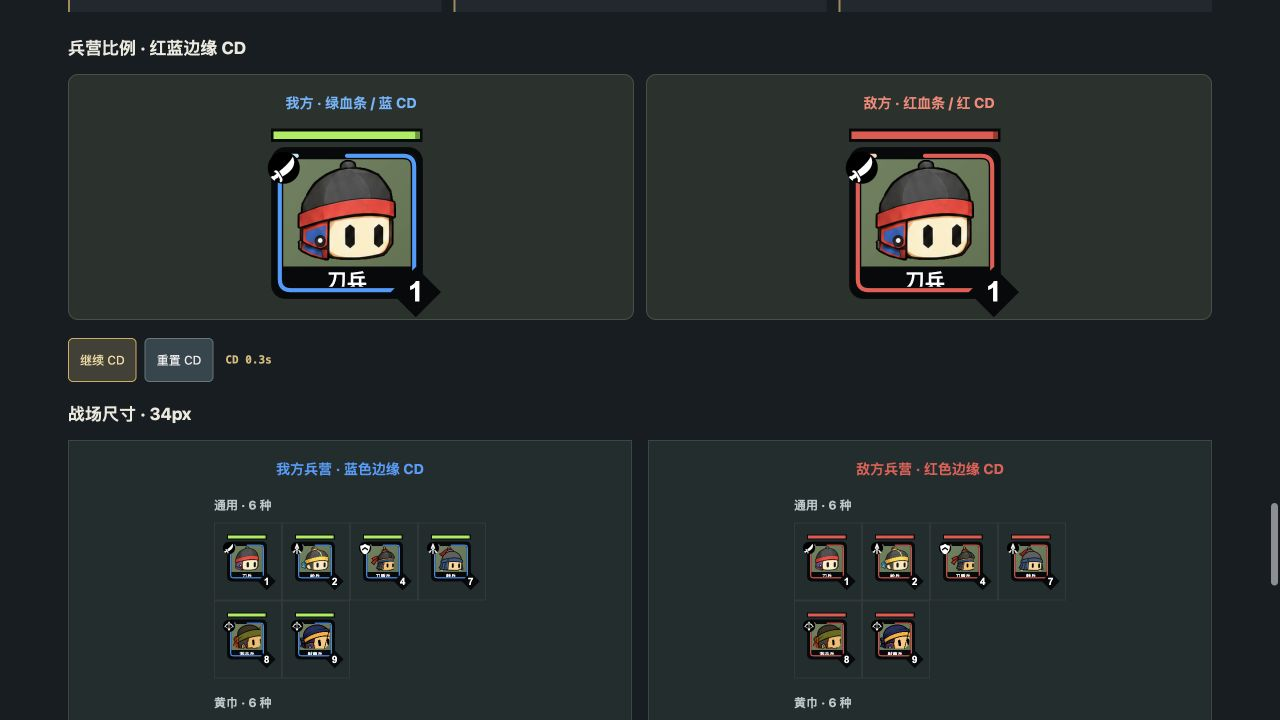
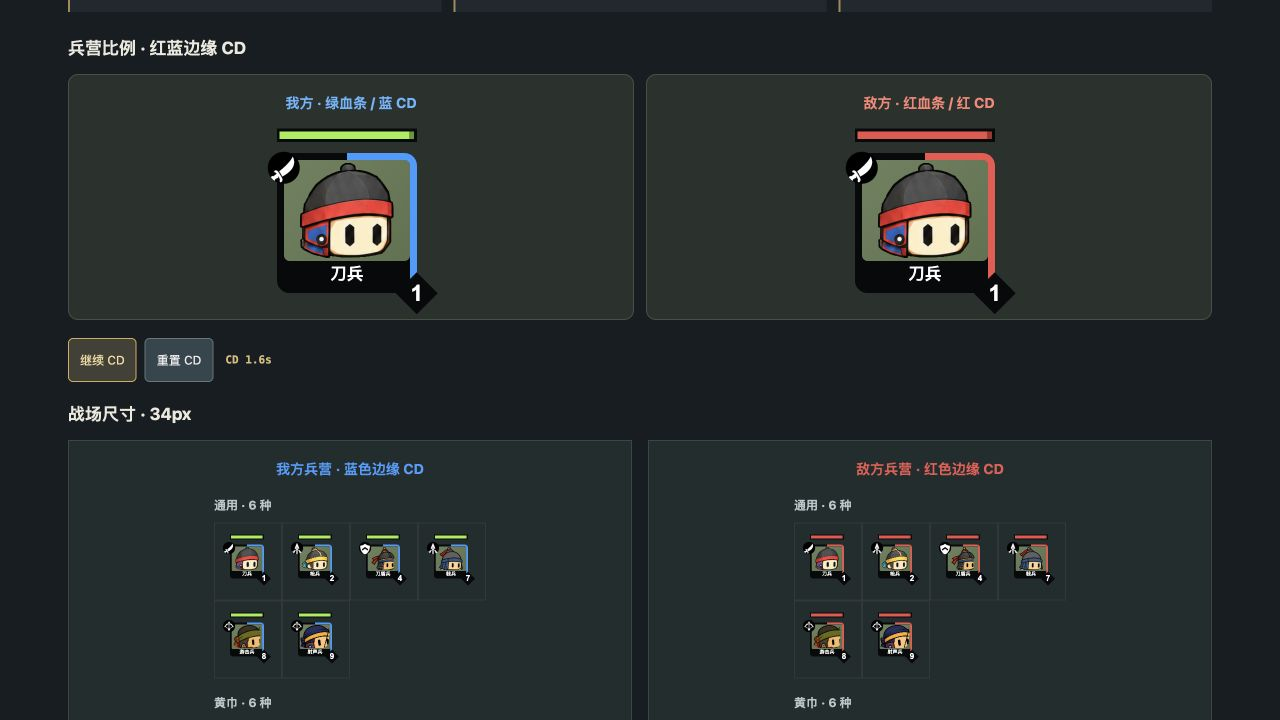
Fix square barracks frame and put cooldown on outer rim

diff --git a/simulators/barracks-hud-v020-20261021/index.html b/simulators/barracks-hud-v020-20261021/index.html
@@ -1,27 +1,27 @@
-<!doctype html><html lang="zh-CN"><meta charset="utf-8"><meta name="viewport" content="width=device-width,initial-scale=1"><title>兵营 · 方形比例与红蓝边缘 CD v030</title>
+<!doctype html><html lang="zh-CN"><meta charset="utf-8"><meta name="viewport" content="width=device-width,initial-scale=1"><title>兵营 · 方形比例与红蓝边缘 CD v031</title>
 <style>
 *{box-sizing:border-box}body{margin:0;background:#171d22;color:#ece9dd;font-family:system-ui,-apple-system,"PingFang SC",sans-serif}main{max-width:1200px;margin:auto;padding:28px 28px 40px}h1{font-size:28px;margin:0 0 8px}p{color:#b2babd;font-size:14px;line-height:1.7;margin:0 0 18px}header b{color:#e7d5a5}.legend{display:flex;gap:18px;flex-wrap:wrap;font-size:12px;margin:18px 0}.legend span{display:flex;align-items:center;gap:7px}.swatch{width:16px;height:16px;display:grid;place-items:center;background:#08090b;clip-path:polygon(50% 0,100% 50%,50% 100%,0 50%)}.swatch:after{content:"";width:12px;height:12px;background:var(--country);transform:rotate(45deg)}
 .view-tabs{padding:8px;background:#20292f;border:1px solid #344148;border-radius:8px;gap:8px}.view-tabs button[aria-pressed=true]{box-shadow:inset 0 -3px var(--pick,#a8ba8e)}.team-board[data-team="ally"] .unit{--frame:#3d9eff}.team-board[data-team="enemy"] .unit{--frame:#ed5752}.return-link{display:inline-flex;align-items:center;min-height:44px;padding:8px 12px;margin-bottom:14px;color:#f7dea1;background:#34454d;border:1px solid #65757a;border-radius:5px;text-decoration:none;font-size:13px}nav{display:flex;gap:8px;flex-wrap:wrap;margin:0 0 20px}button{background:#34454d;color:#eee;border:1px solid #65757a;border-radius:5px;padding:8px 11px;cursor:pointer;font:inherit;font-size:12px;min-height:44px;min-width:44px}button[aria-pressed=true]{border-color:#d7ad55;color:#f7dea1;background:#424136}
-.grid{display:grid;grid-template-columns:repeat(4,1fr);gap:16px}.sample{background:#263136;border:1px solid #344148;border-radius:12px;padding:26px 8px 14px;text-align:center;min-width:0}.stage{height:176px;display:flex;justify-content:center;align-items:center;padding:0 10px}.sample small{display:block;color:#a1adb3;font-size:10px;margin-top:10px}.unit{--s:120px;--rim:max(2px,calc(var(--s)*.035));--name-h:max(12px,calc(var(--s)*.35));--radius:calc(var(--s)*.09);position:relative;width:var(--s);height:var(--s);isolation:isolate;flex:none;margin:0 calc(var(--s)*.06) 0 0}.tile{position:absolute;inset:0;background:#101519;border-radius:var(--radius);overflow:hidden;box-shadow:0 0 0 var(--rim) var(--frame,var(--quality-rim)),0 0 0 calc(var(--rim) + 1px) #08090b}.tile:before{content:"";position:absolute;inset:max(1px,calc(var(--s)*.016));background:var(--quality);border-radius:calc(var(--radius) - max(1px,calc(var(--s)*.016)))}.tile:after{content:"";position:absolute;inset:max(2px,calc(var(--s)*.032));background:linear-gradient(135deg,#ffffff0d,#00000013),var(--quality);border-radius:calc(var(--radius) - max(2px,calc(var(--s)*.032)));box-shadow:inset 0 0 0 1px #ffffff30}.portrait{position:absolute;left:8%;right:8%;top:5%;bottom:calc(var(--name-h) + var(--s)*.025);display:flex;align-items:center;justify-content:center;container-type:size;z-index:1}.head{flex:none;width:min(100cqw,calc(100cqh * var(--ratio)));aspect-ratio:var(--ratio);background-image:var(--atlas);background-size:var(--sprite-size);background-position:var(--sprite-pos);background-repeat:no-repeat}
-.hp{position:absolute;left:calc(-1 * (var(--rim) + 1px));right:calc(-1 * (var(--rim) + 1px));bottom:calc(100% + max(5px,calc(var(--s)*.08)));height:max(5px,calc(var(--s)*.095));background:#08090b;padding:max(1px,calc(var(--s)*.02));z-index:3}.fill{height:100%;width:var(--hp,100%);background:var(--hp-color,#a0ee49);box-shadow:inset calc(var(--s)*-.035) 0 var(--hp-shade,#5c982c)}.role{--role-w:max(14px,calc(var(--s)*.26));position:absolute;left:calc(var(--s)*.18 - var(--role-w));top:-3.5px;width:var(--role-w);height:auto;z-index:8}.level{position:absolute;right:min(calc(max(18px,calc(var(--s)*.36)) * -.48),calc(var(--name-h) - max(18px,calc(var(--s)*.36)) - .1px));bottom:min(calc(max(18px,calc(var(--s)*.36)) * -.48),calc(var(--name-h) - max(18px,calc(var(--s)*.36)) - .1px));width:max(18px,calc(var(--s)*.36));aspect-ratio:1;background:#08090b;clip-path:polygon(50% 0,100% 50%,50% 100%,0 50%);display:grid;place-items:center;z-index:8}.level:before{content:"";position:absolute;inset:max(2px,calc(var(--s)*.035));background:#08090b;clip-path:inherit}.digit{position:relative;color:#fff;font:900 max(10px,calc(var(--s)*.20))/1 Arial,Helvetica,sans-serif;font-variant-numeric:tabular-nums;letter-spacing:-.035em;padding-right:.03em;z-index:1}.digit.wide{font-size:max(9px,calc(var(--s)*.16))}.nameplate{position:absolute;bottom:0;left:0;width:100%;height:var(--name-h);display:flex;align-items:center;justify-content:center;padding:0 2%;background:#08090b;color:#fff;font-size:max(10px,calc(var(--s)*.333));font-weight:750;line-height:1;white-space:nowrap;z-index:2}.cd{position:absolute}.countdown{font:600 11px/1.4 ui-monospace,SFMono-Regular,monospace;color:#dabb78;display:block;margin-top:5px}
-.group-title{grid-column:1/-1;margin:12px 0 0;padding-bottom:8px;border-bottom:1px solid #465044}.board-group{grid-column:1/-1;font-size:12px;margin:16px 0 9px;color:#bbc6c8}.board-group:first-child{margin-top:0}.sample .full-name{font-size:12px;color:#ece9dd;margin-top:6px}.sample .pending-label{color:#e7bc70}.placeholder{background-image:none!important;display:grid;place-items:center;color:#c1c9ca;font-size:max(6px,calc(var(--s)*.13));font-weight:600}.long-name .nameplate{font-size:max(10px,calc(var(--s)*.333));letter-spacing:-.05em}.long-name .name-text{transform:scaleX(.72)}.notes{display:grid;grid-template-columns:repeat(3,1fr);gap:12px;margin-top:20px}.note{background:#20292f;padding:14px 16px;border-left:2px solid #a18a55;font-size:13px;color:#b7c1c7;line-height:1.8}.note strong{display:block;color:#eee9db;font-size:14px}section{margin-top:24px}h2{font-size:17px;margin:0 0 14px}.battle-sides{display:grid;grid-template-columns:repeat(2,minmax(0,1fr));gap:16px}.team-board h3{font-size:14px;margin:0 0 18px;text-align:center}.team-board[data-team="ally"] h3{color:#3d9eff}.team-board[data-team="enemy"] h3{color:#ed5752}.actual{background:#222d2e;border:1px solid #3a4742;padding:18px 10px;overflow:auto}.board{display:grid;grid-template-columns:repeat(4,68px);width:max-content;margin:auto}.cell{width:68px;height:78px;display:flex;align-items:center;justify-content:center;border:1px solid #46504455}.actual .unit{--s:34px}.caption{font-size:12px;color:#a7b6af;margin:12px 0 0;text-align:center}.foot{font-size:12px;color:#8a999f;margin-top:22px}
+.grid{display:grid;grid-template-columns:repeat(4,1fr);gap:16px}.sample{background:#263136;border:1px solid #344148;border-radius:12px;padding:26px 8px 14px;text-align:center;min-width:0}.stage{height:176px;display:flex;justify-content:center;align-items:center;padding:0 10px}.sample small{display:block;color:#a1adb3;font-size:10px;margin-top:10px}.fill{height:100%;width:var(--hp,100%);background:var(--hp-color,#a0ee49);box-shadow:inset calc(var(--s)*-.035) 0 var(--hp-shade,#5c982c)}.role{--role-w:max(14px,calc(var(--s)*.26));position:absolute;left:calc(var(--s)*.18 - var(--role-w));top:-3.5px;width:var(--role-w);height:auto;z-index:8}.digit{position:relative;color:#fff;font:900 max(8px,calc(var(--s)*.16))/1 Arial,Helvetica,sans-serif;font-variant-numeric:tabular-nums;letter-spacing:-.035em;padding-right:.03em;z-index:1}.digit.wide{font-size:max(6.5px,calc(var(--s)*.13))}.countdown{font:600 11px/1.4 ui-monospace,SFMono-Regular,monospace;color:#dabb78;display:block;margin-top:5px}
+.group-title{grid-column:1/-1;margin:12px 0 0;padding-bottom:8px;border-bottom:1px solid #465044}.board-group{grid-column:1/-1;font-size:12px;margin:16px 0 9px;color:#bbc6c8}.board-group:first-child{margin-top:0}.sample .full-name{font-size:12px;color:#ece9dd;margin-top:6px}.sample .pending-label{color:#e7bc70}.placeholder{background-image:none!important;display:grid;place-items:center;color:#c1c9ca;font-size:max(6px,calc(var(--s)*.13));font-weight:600}.notes{display:grid;grid-template-columns:repeat(3,1fr);gap:12px;margin-top:20px}.note{background:#20292f;padding:14px 16px;border-left:2px solid #a18a55;font-size:13px;color:#b7c1c7;line-height:1.8}.note strong{display:block;color:#eee9db;font-size:14px}section{margin-top:24px}h2{font-size:17px;margin:0 0 14px}.battle-sides{display:grid;grid-template-columns:repeat(2,minmax(0,1fr));gap:16px}.team-board h3{font-size:14px;margin:0 0 18px;text-align:center}.team-board[data-team="ally"] h3{color:#3d9eff}.team-board[data-team="enemy"] h3{color:#ed5752}.actual{background:#222d2e;border:1px solid #3a4742;padding:18px 10px;overflow:auto}.board{display:grid;grid-template-columns:repeat(4,68px);width:max-content;margin:auto}.cell{width:68px;height:78px;display:flex;align-items:center;justify-content:center;border:1px solid #46504455}.actual .unit{--s:34px}.caption{font-size:12px;color:#a7b6af;margin:12px 0 0;text-align:center}.foot{font-size:12px;color:#8a999f;margin-top:22px}
 @media(max-width:600px){.battle-sides{grid-template-columns:1fr;gap:16px}main{padding:22px 16px 30px}h1{font-size:24px}.grid{grid-template-columns:repeat(2,1fr);gap:12px}.sample{padding:20px 5px 12px}.sample .unit{--s:96px}.stage{height:148px}.notes{grid-template-columns:1fr;gap:8px}.board{grid-template-columns:repeat(4,68px)}.actual{padding:16px 6px}.legend{gap:12px}.sample small{font-size:9px}}
 
-/* Shared square barracks: 81% portrait face, 19% black nameplate. */
-.unit{--name-h:calc(var(--s)*.19);--radius:calc(var(--s)*.06);--hp-color:#a0ee49;--hp-shade:#5c982c;--cd-color:#359cff;--cd-light:#c0e8ff}
+/* One 100 x 100 coordinate system: outer CD rim 5%, rounded content inside it. */
+.unit{--s:120px;--edge:calc(var(--s)*.05);--radius:calc(var(--s)*.09);--name-h:calc(var(--s)*.18);--hp-color:#a0ee49;--hp-shade:#5c982c;--cd-color:#359cff;--cd-light:#c0e8ff;position:relative;width:var(--s);height:var(--s);isolation:isolate;flex:none;margin:0 calc(var(--s)*.06) 0 0}
 .unit[data-team="enemy"]{--hp-color:#ef514b;--hp-shade:#a52e2a;--cd-color:#f2544e;--cd-light:#ffd3be}
-.team-board[data-team] .unit,.proportion-sample .unit{--frame:#08090b}
-.tile{box-shadow:0 0 0 var(--rim) var(--frame,var(--quality-rim)),0 0 0 calc(var(--rim) + 1px) #08090b}
-.tile:after{box-shadow:none}
-.portrait{left:6%;right:6%;top:5%;bottom:calc(var(--name-h) + var(--s)*.045)}
-.nameplate{height:var(--name-h);font-size:max(5px,calc(var(--s)*.145));font-weight:900;letter-spacing:0;border-top:max(1px,calc(var(--s)*.015)) solid #08090b}
-.long-name .nameplate{font-size:max(5px,calc(var(--s)*.12));letter-spacing:0}.long-name .name-text{transform:none}
-.cd{inset:0;width:100%;height:100%;border:0;background:none;z-index:6;pointer-events:none}
+.tile{position:absolute;inset:0;background:#08090b;border-radius:var(--radius);overflow:hidden}
+.portrait{position:absolute;left:5%;right:5%;top:5%;bottom:23%;border-radius:calc(var(--s)*.04);overflow:hidden;background:linear-gradient(135deg,#ffffff0d,#00000013),var(--quality);display:flex;align-items:center;justify-content:center;container-type:size;z-index:1}
+.head{flex:none;width:min(94cqw,calc(94cqh * var(--ratio)));aspect-ratio:var(--ratio);background-image:var(--atlas);background-size:var(--sprite-size);background-position:var(--sprite-pos);background-repeat:no-repeat}
+.nameplate{position:absolute;bottom:5%;left:5%;right:5%;height:var(--name-h);display:flex;align-items:center;justify-content:center;padding:0 2%;background:#08090b;color:#fff;font-size:max(5px,calc(var(--s)*.12));font-weight:900;line-height:1.1;white-space:nowrap;z-index:2}
+.name-text{display:block;line-height:1.1}.long-name .nameplate{font-size:max(5px,calc(var(--s)*.115));letter-spacing:0}.long-name .name-text{transform:none}
+.hp{position:absolute;left:0;right:0;bottom:calc(100% + max(5px,calc(var(--s)*.08)));height:max(5px,calc(var(--s)*.095));background:#08090b;padding:max(1px,calc(var(--s)*.02));z-index:3}
+.level{--level-w:max(14px,calc(var(--s)*.30));position:absolute;right:calc(var(--level-w)*-.5);bottom:calc(var(--level-w)*-.5);width:var(--level-w);aspect-ratio:1;background:#08090b;clip-path:polygon(50% 0,100% 50%,50% 100%,0 50%);display:grid;place-items:center;z-index:8}
+.cd{position:absolute;inset:0;width:100%;height:100%;border:0;background:none;z-index:6;pointer-events:none}
 .cd svg{display:block;width:100%;height:100%;overflow:visible}
-.cd path{fill:none;stroke-linejoin:round;stroke-linecap:round}
-.cd-track{stroke:#08090b;stroke-width:5}
-.cd-progress{stroke:var(--cd-color);stroke-width:3;stroke-dasharray:var(--cd-progress,36) 100}
-.cd-tip{stroke:var(--cd-light);stroke-width:3;stroke-dasharray:.9 100;stroke-dashoffset:var(--cd-tip,-36);opacity:var(--cd-tip-opacity,1)}
+.cd path{fill:none;stroke-width:5;stroke-linejoin:round;stroke-linecap:butt}
+.cd-track{stroke:#08090b}
+.cd-progress{stroke:var(--cd-color);stroke-dasharray:var(--cd-progress,36) 100}
+.cd-tip{stroke:var(--cd-light);stroke-dasharray:.9 100;stroke-dashoffset:var(--cd-tip,-36);opacity:var(--cd-tip-opacity,1)}
 .proportion-preview{display:grid;grid-template-columns:1fr 1fr;gap:12px;margin-bottom:18px}
 .proportion-sample{display:grid;justify-items:center;gap:22px;background:#29322d;border:1px solid #465044;border-radius:10px;padding:18px 8px 26px}
 .proportion-sample h3{margin:0;font-size:14px}.proportion-sample[data-team="ally"] h3{color:#63b5ff}.proportion-sample[data-team="enemy"] h3{color:#ff8375}
@@ -29,12 +29,12 @@
 .battle-controls{display:flex;gap:8px;flex-wrap:wrap;margin-bottom:20px}
 @media(max-width:600px){.proportion-sample .unit{--s:104px}.proportion-sample{padding-bottom:22px}.proportion-preview{gap:10px}}
 </style>
-<main><a class="return-link" href="../../index.html">← 返回资源库主页</a><header><h1>兵营 · 方形卡面与边缘 CD</h1><p><b>参考方形比例 · 窄黑名称栏 · 蓝 / 红边缘冷却进度</b><br>全部 36 种 · 保留头像、血量、兵种图标和等级<br>主体与名称栏整体为 1∶1，底部名称栏占 19%。CD 从顶部中央沿边缘顺时针推进，完成一圈即进入下一轮出兵冷却。</p></header>
+<main><a class="return-link" href="../../index.html">← 返回资源库主页</a><header><h1>兵营 · 方形卡面与边缘 CD</h1><p><b>参考方形比例 · 窄黑名称栏 · 蓝 / 红边缘冷却进度</b><br>全部 36 种 · 保留头像、血量、兵种图标和等级<br>主体与名称栏整体为 1∶1，名称区与四边包边分开布局。CD 从顶部中央沿外包边顺时针推进，完成一圈即进入下一轮出兵冷却。</p></header>
 <div class="legend" id="legend"></div><nav><button data-hp="100%" aria-pressed="true">满血</button><button data-hp="55%" aria-pressed="false">半血</button><button data-hp="12%" aria-pressed="false">低血</button><button id="toggle" aria-pressed="false">暂停 CD</button><button id="reset">重置 CD</button><output class="countdown" style="align-self:center;margin:0 0 0 4px">CD 1.6s</output></nav>
 <div class="grid" id="cards"></div>
-<div class="notes"><div class="note"><strong>统一方形比例</strong>主体与底部名称栏共用 1∶1 轮廓；名称栏占整体高度 19%，头像区扩大，黑色轮廓保留。上方素材样例保留品质外边。</div><div class="note"><strong>保留原有信息</strong>兵种图标叠左上角，黑底白字的合成等级菱形叠右下角，图标与等级均位于 CD 上层；血条位于兵营上方，我方绿色、敌方红色，保持与方块外沿等宽，头像、名称与兵种名单沿用原素材。</div><div class="note"><strong>CD 改为边缘走马灯</strong>我方蓝色、敌方红色。亮色前端沿方框顺时针行进，后方彩线随冷却进度增长，2.5 秒一圈；暂停和重置同时作用于所有尺寸。</div></div>
+<div class="notes"><div class="note"><strong>统一方形比例</strong>主体与底部名称栏共用 1∶1 轮廓；内框圆角，四边包边统一占边长 5%；名称区留在包边以内，避免文字被切。</div><div class="note"><strong>保留原有信息</strong>兵种图标叠左上角，黑底白字的合成等级菱形叠右下角，图标与等级均位于 CD 上层；血条位于兵营上方，我方绿色、敌方红色，保持与方块外沿等宽，头像、名称与兵种名单沿用原素材。</div><div class="note"><strong>CD 改为边缘走马灯</strong>我方蓝色、敌方红色。亮色前端沿方框顺时针行进，彩色包边随冷却进度增长，2.5 秒一圈；暂停和重置同时作用于所有尺寸。</div></div>
 <section id="battle-barracks"><h2>兵营比例 · 红蓝边缘 CD</h2><div class="proportion-preview" id="proportion-preview"></div><div class="battle-controls"><button data-cd-action="toggle">暂停 CD</button><button data-cd-action="reset">重置 CD</button><output class="countdown" style="align-self:center;margin:0 0 0 4px">CD 1.6s</output></div><h2>战场尺寸 · 34px</h2><div class="battle-sides"><div class="actual team-board" data-team="ally"><h3>我方兵营 · 蓝色边缘 CD</h3><div class="board" id="board"></div></div><div class="actual team-board" data-team="enemy"><h3>敌方兵营 · 红色边缘 CD</h3><div class="board" id="enemy-board"></div></div></div><p class="caption">放大预览与 34px 战场尺寸使用同一组件；彩色边缘长度对应 CD 进度。</p></section>
-<p class="foot">独立设计预览 v030 · 36 种兵营共用方形组件 · CD 按 2.5 秒周期演示，未连接真实出兵。微信工程未修改。</p></main>
+<p class="foot">独立设计预览 v031 · 36 种兵营共用方形组件 · CD 按 2.5 秒周期演示，未连接真实出兵。微信工程未修改。</p></main>
 <script>
 const data=[{"id":"blade","name":"刀兵","fullName":"刀兵","quality":"C","faction":"common","role":"blade","level":1,"headImage":"assets/blade.png","headStatus":"card_material","sourceHead":"/Volumes/ORICO/CodexProjects/微信界面/outputs/第1-13章卡牌-全图标兵种-v012-20261018/unique/portraits/soldier_blade.png","sourceSet":"32-card-pool","longName":false,"ratio":0.9831460674157303,"spriteSize":"100% 100%","spritePos":"50% 50%","pixelSize":[175,178],"alphaBounds":[0,0,175,178],"icon":"role-icons/刀.png","displayMode":"avatar-only","iconStyle":"approved-round-black-white-v020","iconLabel":"刀"},{"id":"spear","name":"枪兵","fullName":"枪兵","quality":"C","faction":"common","role":"spear","level":2,"headImage":"assets/spear.png","headStatus":"card_material","sourceHead":"/Volumes/ORICO/CodexProjects/微信界面/outputs/第1-13章卡牌-全图标兵种-v012-20261018/unique/portraits/soldier_spear.png","sourceSet":"32-card-pool","longName":false,"ratio":1.1443850267379678,"spriteSize":"100% 100%","spritePos":"50% 50%","pixelSize":[214,187],"alphaBounds":[0,0,214,187],"icon":"role-icons/枪.png","displayMode":"avatar-only","iconStyle":"approved-round-black-white-v020","iconLabel":"枪"},{"id":"daoDun","name":"刀盾兵","fullName":"刀盾兵","quality":"C","faction":"common","role":"shield","level":4,"headImage":"assets/daoDun.png","headStatus":"action_idle","sourceHead":"/Volumes/ORICO/deepseek kimi weixin/simulators/02-动作模拟/battle-v036/runtime/dao_dun/idle.png","sourceSet":"4-combination-barracks","longName":false,"ratio":0.9851485148514851,"spriteSize":"100% 100%","spritePos":"50% 50%","pixelSize":[597,606],"alphaBounds":[0,0,597,606],"icon":"role-icons/盾.png","displayMode":"avatar-only","iconStyle":"approved-round-black-white-v020","iconLabel":"盾"},{"id":"jiBing","name":"戟兵","fullName":"戟兵","quality":"C","faction":"common","role":"spear","level":7,"headImage":"assets/jiBing.png","headStatus":"action_idle","sourceHead":"/Volumes/ORICO/deepseek kimi weixin/simulators/02-动作模拟/battle-v036/runtime/ji_bing/idle.png","sourceSet":"4-combination-barracks","longName":false,"ratio":1.0424528301886793,"spriteSize":"100% 100%","spritePos":"50% 50%","pixelSize":[442,424],"alphaBounds":[0,0,442,424],"icon":"role-icons/枪.png","displayMode":"avatar-only","iconStyle":"approved-round-black-white-v020","iconLabel":"枪"},{"id":"youJi","name":"游击兵","fullName":"游击兵","quality":"C","faction":"common","role":"bow","level":8,"headImage":"assets/youJi.png","headStatus":"action_idle","sourceHead":"/Volumes/ORICO/deepseek kimi weixin/simulators/02-动作模拟/battle-v036/runtime/you_ji/idle.png","sourceSet":"4-combination-barracks","longName":false,"ratio":1.1674107142857142,"spriteSize":"100% 100%","spritePos":"50% 50%","pixelSize":[523,448],"alphaBounds":[0,0,523,448],"icon":"role-icons/弓.png","displayMode":"avatar-only","iconStyle":"approved-round-black-white-v020","iconLabel":"弓"},{"id":"sheSheng","name":"射声兵","fullName":"射声兵","quality":"C","faction":"common","role":"bow","level":9,"headImage":"assets/sheSheng.png","headStatus":"action_idle","sourceHead":"/Volumes/ORICO/deepseek kimi weixin/simulators/02-动作模拟/battle-v036/runtime/she_sheng/idle.png","sourceSet":"4-combination-barracks","longName":false,"ratio":1.2574525745257452,"spriteSize":"100% 100%","spritePos":"50% 50%","pixelSize":[464,369],"alphaBounds":[0,0,464,369],"icon":"role-icons/弓.png","displayMode":"avatar-only","iconStyle":"approved-round-black-white-v020","iconLabel":"弓"},{"id":"b1_huangjin","name":"太平弓","fullName":"太平弓手","quality":"B","faction":"huangjin","role":"bow","level":3,"headImage":"assets/b1_huangjin.png","headStatus":"card_material","sourceHead":"/Volumes/ORICO/CodexProjects/微信界面/outputs/第1-13章卡牌-全图标兵种-v012-20261018/unique/portraits/soldier_b1_huangjin.png","sourceSet":"32-card-pool","longName":false,"ratio":1.0246305418719213,"spriteSize":"100% 100%","spritePos":"50% 50%","pixelSize":[208,203],"alphaBounds":[0,0,208,203],"icon":"role-icons/弓.png","displayMode":"avatar-only","iconStyle":"approved-round-black-white-v020","iconLabel":"弓"},{"id":"b2_huangjin","name":"黄天骑","fullName":"黄天骑","quality":"B","faction":"huangjin","role":"cavalry","level":5,"headImage":"assets/b2_huangjin.png","headStatus":"card_material","sourceHead":"/Volumes/ORICO/CodexProjects/微信界面/outputs/第1-13章卡牌-全图标兵种-v012-20261018/unique/portraits/soldier_b2_huangjin.png","sourceSet":"32-card-pool","longName":false,"ratio":1.1827956989247312,"spriteSize":"100% 100%","spritePos":"50% 50%","pixelSize":[220,186],"alphaBounds":[0,0,220,186],"icon":"role-icons/骑.png","displayMode":"avatar-only","iconStyle":"approved-round-black-white-v020","iconLabel":"骑"},{"id":"b3_huangjin","name":"黄巾士","fullName":"黄巾力士","quality":"B","faction":"huangjin","role":"shield","level":8,"headImage":"assets/b3_huangjin.png","headStatus":"card_material","sourceHead":"/Volumes/ORICO/CodexProjects/微信界面/outputs/第1-13章卡牌-全图标兵种-v012-20261018/unique/portraits/soldier_b3_huangjin.png","sourceSet":"32-card-pool","longName":false,"ratio":0.9532710280373832,"spriteSize":"100% 100%","spritePos":"50% 50%","pixelSize":[204,214],"alphaBounds":[0,0,204,214],"icon":"role-icons/盾.png","displayMode":"avatar-only","iconStyle":"approved-round-black-white-v020","iconLabel":"盾"},{"id":"b5_huangjin","name":"太平道","fullName":"太平道士","quality":"B","faction":"huangjin","role":"heal","level":10,"headImage":"assets/b5_huangjin.png","headStatus":"card_material","sourceHead":"/Volumes/ORICO/CodexProjects/微信界面/outputs/第1-13章卡牌-全图标兵种-v012-20261018/unique/portraits/soldier_b5_huangjin.png","sourceSet":"32-card-pool","longName":false,"ratio":0.9090909090909091,"spriteSize":"100% 100%","spritePos":"50% 50%","pixelSize":[190,209],"alphaBounds":[0,0,190,209],"icon":"role-icons/医.png","displayMode":"avatar-only","iconStyle":"approved-round-black-white-v020","iconLabel":"医"},{"id":"c_huang_guidao","name":"鬼道师","fullName":"鬼道师","quality":"A","faction":"huangjin","role":"magic","level":12,"headImage":"assets/c_huang_guidao.png","headStatus":"card_material","sourceHead":"/Volumes/ORICO/CodexProjects/微信界面/outputs/第1-13章卡牌-全图标兵种-v012-20261018/unique/portraits/soldier_c_huang_guidao.png","sourceSet":"32-card-pool","longName":false,"ratio":1.0510204081632653,"spriteSize":"100% 100%","spritePos":"50% 50%","pixelSize":[206,196],"alphaBounds":[0,0,206,196],"icon":"role-icons/术.png","displayMode":"avatar-only","iconStyle":"approved-round-black-white-v020","iconLabel":"术"},{"id":"c_huang_zombie","name":"僵尸兵","fullName":"僵尸兵","quality":"A","faction":"huangjin","role":"undead","level":20,"headImage":"assets/c_huang_zombie.png","headStatus":"card_material","sourceHead":"/Volumes/ORICO/CodexProjects/微信界面/outputs/第1-13章卡牌-全图标兵种-v012-20261018/unique/portraits/soldier_c_huang_zombie.png","sourceSet":"32-card-pool","longName":false,"ratio":1.2540540540540541,"spriteSize":"100% 100%","spritePos":"50% 50%","pixelSize":[232,185],"alphaBounds":[0,0,232,185],"icon":"role-icons/尸.png","displayMode":"avatar-only","iconStyle":"approved-round-black-white-v020","iconLabel":"尸"},{"id":"b1_qun","name":"河北弓手","fullName":"河北弓手","quality":"B","faction":"qun","role":"bow","level":9,"headImage":"assets/b1_qun.png","headStatus":"card_material","sourceHead":"/Volumes/ORICO/CodexProjects/微信界面/outputs/第1-13章卡牌-全图标兵种-v012-20261018/unique/portraits/soldier_b1_qun.png","sourceSet":"32-card-pool","longName":true,"ratio":1.1590909090909092,"spriteSize":"100% 100%","spritePos":"50% 50%","pixelSize":[204,176],"alphaBounds":[0,0,204,176],"icon":"role-icons/弓.png","displayMode":"avatar-only","iconStyle":"approved-round-black-white-v020","iconLabel":"弓"},{"id":"b2_qun","name":"金戈铁马","fullName":"金戈铁马","quality":"B","faction":"qun","role":"cavalry","level":1,"headImage":"assets/b2_qun.png","headStatus":"card_material","sourceHead":"/Volumes/ORICO/CodexProjects/微信界面/outputs/第1-13章卡牌-全图标兵种-v012-20261018/unique/portraits/soldier_b2_qun.png","sourceSet":"32-card-pool","longName":true,"ratio":0.9144144144144144,"spriteSize":"100% 100%","spritePos":"50% 50%","pixelSize":[203,222],"alphaBounds":[0,0,203,222],"icon":"role-icons/骑.png","displayMode":"avatar-only","iconStyle":"approved-round-black-white-v020","iconLabel":"骑"},{"id":"b3_qun","name":"金甲勇士","fullName":"金甲勇士","quality":"B","faction":"qun","role":"shield","level":2,"headImage":"assets/b3_qun.png","headStatus":"card_material","sourceHead":"/Volumes/ORICO/CodexProjects/微信界面/outputs/第1-13章卡牌-全图标兵种-v012-20261018/unique/portraits/soldier_b3_qun.png","sourceSet":"32-card-pool","longName":true,"ratio":0.8642533936651584,"spriteSize":"100% 100%","spritePos":"50% 50%","pixelSize":[191,221],"alphaBounds":[0,0,191,221],"icon":"role-icons/盾.png","displayMode":"avatar-only","iconStyle":"approved-round-black-white-v020","iconLabel":"盾"},{"id":"b4_qun","name":"强石车","fullName":"强石车","quality":"B","faction":"qun","role":"siege","level":3,"headImage":"assets/b4_qun.png","headStatus":"card_material","sourceHead":"/Volumes/ORICO/CodexProjects/微信界面/outputs/第1-13章卡牌-全图标兵种-v012-20261018/unique/portraits/soldier_b4_qun.png","sourceSet":"32-card-pool","longName":false,"ratio":1.2133333333333334,"spriteSize":"100% 100%","spritePos":"50% 50%","pixelSize":[182,150],"alphaBounds":[0,0,182,150],"icon":"role-icons/械.png","displayMode":"avatar-only","iconStyle":"approved-round-black-white-v020","iconLabel":"械"},{"id":"c_qun_baima","name":"白马义从","fullName":"白马义从","quality":"A","faction":"qun","role":"cavalry","level":3,"headImage":"assets/c_qun_baima.png","headStatus":"card_material","sourceHead":"/Volumes/ORICO/CodexProjects/微信界面/outputs/第1-13章卡牌-全图标兵种-v012-20261018/unique/portraits/soldier_c_qun_baima.png","sourceSet":"32-card-pool","longName":true,"ratio":1.202127659574468,"spriteSize":"100% 100%","spritePos":"50% 50%","pixelSize":[226,188],"alphaBounds":[0,0,226,188],"icon":"role-icons/骑.png","displayMode":"avatar-only","iconStyle":"approved-round-black-white-v020","iconLabel":"骑"},{"id":"c_qun_xiang","name":"巨象甲兵","fullName":"巨象甲兵","quality":"A","faction":"qun","role":"elephant","level":2,"headImage":"assets/c_qun_xiang.png","headStatus":"card_material","sourceHead":"/Volumes/ORICO/CodexProjects/微信界面/outputs/第1-13章卡牌-全图标兵种-v012-20261018/unique/portraits/soldier_c_qun_xiang.png","sourceSet":"32-card-pool","longName":true,"ratio":0.9726775956284153,"spriteSize":"100% 100%","spritePos":"50% 50%","pixelSize":[178,183],"alphaBounds":[0,0,178,183],"icon":"role-icons/象.png","displayMode":"avatar-only","iconStyle":"approved-round-black-white-v020","iconLabel":"象"},{"id":"b2_wei","name":"虎豹骑","fullName":"虎豹骑","quality":"B","faction":"wei","role":"cavalry","level":4,"headImage":"assets/b2_wei.png","headStatus":"card_material","sourceHead":"/Volumes/ORICO/CodexProjects/微信界面/outputs/第1-13章卡牌-全图标兵种-v012-20261018/unique/portraits/soldier_b2_wei.png","sourceSet":"32-card-pool","longName":false,"ratio":0.896551724137931,"spriteSize":"100% 100%","spritePos":"50% 50%","pixelSize":[182,203],"alphaBounds":[0,0,182,203],"icon":"role-icons/骑.png","displayMode":"avatar-only","iconStyle":"approved-round-black-white-v020","iconLabel":"骑"},{"id":"b3_wei","name":"虎卫军","fullName":"虎卫军","quality":"B","faction":"wei","role":"shield","level":8,"headImage":"assets/b3_wei.png","headStatus":"card_material","sourceHead":"/Volumes/ORICO/CodexProjects/微信界面/outputs/第1-13章卡牌-全图标兵种-v012-20261018/unique/portraits/soldier_b3_wei.png","sourceSet":"32-card-pool","longName":false,"ratio":1.168421052631579,"spriteSize":"100% 100%","spritePos":"50% 50%","pixelSize":[222,190],"alphaBounds":[0,0,222,190],"icon":"role-icons/盾.png","displayMode":"avatar-only","iconStyle":"approved-round-black-white-v020","iconLabel":"盾"},{"id":"b4_wei","name":"霹雳车","fullName":"霹雳车","quality":"B","faction":"wei","role":"siege","level":9,"headImage":"assets/b4_wei.png","headStatus":"card_material","sourceHead":"/Volumes/ORICO/CodexProjects/微信界面/outputs/第1-13章卡牌-全图标兵种-v012-20261018/unique/portraits/soldier_b4_wei.png","sourceSet":"32-card-pool","longName":false,"ratio":1.2428571428571429,"spriteSize":"100% 100%","spritePos":"50% 50%","pixelSize":[174,140],"alphaBounds":[0,0,174,140],"icon":"role-icons/械.png","displayMode":"avatar-only","iconStyle":"approved-round-black-white-v020","iconLabel":"械"},{"id":"b5_wei","name":"随军医士","fullName":"随军医士","quality":"B","faction":"wei","role":"heal","level":1,"headImage":"assets/b5_wei.png","headStatus":"card_material","sourceHead":"/Volumes/ORICO/CodexProjects/微信界面/outputs/第1-13章卡牌-全图标兵种-v012-20261018/unique/portraits/soldier_b5_wei.png","sourceSet":"32-card-pool","longName":true,"ratio":1.196319018404908,"spriteSize":"100% 100%","spritePos":"50% 50%","pixelSize":[195,163],"alphaBounds":[0,0,195,163],"icon":"role-icons/医.png","displayMode":"avatar-only","iconStyle":"approved-round-black-white-v020","iconLabel":"医"},{"id":"c_wei_baowei","name":"豹卫军","fullName":"豹卫军","quality":"A","faction":"wei","role":"blade","level":4,"headImage":"assets/c_wei_baowei.png","headStatus":"card_material","sourceHead":"/Volumes/ORICO/CodexProjects/微信界面/outputs/第1-13章卡牌-全图标兵种-v012-20261018/unique/portraits/soldier_c_wei_baowei.png","sourceSet":"32-card-pool","longName":false,"ratio":1.2328042328042328,"spriteSize":"100% 100%","spritePos":"50% 50%","pixelSize":[233,189],"alphaBounds":[0,0,233,189],"icon":"role-icons/刀.png","displayMode":"avatar-only","iconStyle":"approved-round-black-white-v020","iconLabel":"刀"},{"id":"c_wei_huwei","name":"虎卫军","fullName":"虎卫军","quality":"A","faction":"wei","role":"shield","level":1,"headImage":"assets/c_wei_huwei.png","headStatus":"card_material","sourceHead":"/Volumes/ORICO/CodexProjects/微信界面/outputs/第1-13章卡牌-全图标兵种-v012-20261018/unique/portraits/soldier_c_wei_huwei.png","sourceSet":"32-card-pool","longName":false,"ratio":0.7986348122866894,"spriteSize":"100% 100%","spritePos":"50% 50%","pixelSize":[234,293],"alphaBounds":[0,0,234,293],"icon":"role-icons/盾.png","displayMode":"avatar-only","iconStyle":"approved-round-black-white-v020","iconLabel":"盾"},{"id":"b1_shu","name":"益州弓手","fullName":"益州弓手","quality":"B","faction":"shu","role":"bow","level":6,"headImage":"assets/b1_shu.png","headStatus":"card_material","sourceHead":"/Volumes/ORICO/CodexProjects/微信界面/outputs/第1-13章卡牌-全图标兵种-v012-20261018/unique/portraits/soldier_b1_shu.png","sourceSet":"32-card-pool","longName":true,"ratio":1.0613207547169812,"spriteSize":"100% 100%","spritePos":"50% 50%","pixelSize":[225,212],"alphaBounds":[0,0,225,212],"icon":"role-icons/弓.png","displayMode":"avatar-only","iconStyle":"approved-round-black-white-v020","iconLabel":"弓"},{"id":"b2_shu","name":"汉中突骑","fullName":"汉中突骑","quality":"B","faction":"shu","role":"cavalry","level":3,"headImage":"assets/b2_shu.png","headStatus":"card_material","sourceHead":"/Volumes/ORICO/CodexProjects/微信界面/outputs/第1-13章卡牌-全图标兵种-v012-20261018/unique/portraits/soldier_b2_shu.png","sourceSet":"32-card-pool","longName":true,"ratio":1.0441176470588236,"spriteSize":"100% 100%","spritePos":"50% 50%","pixelSize":[213,204],"alphaBounds":[0,0,213,204],"icon":"role-icons/骑.png","displayMode":"avatar-only","iconStyle":"approved-round-black-white-v020","iconLabel":"骑"},{"id":"b4_shu","name":"旋刃车","fullName":"旋刃车","quality":"B","faction":"shu","role":"siege","level":6,"headImage":"assets/b4_shu.png","headStatus":"card_material","sourceHead":"/Volumes/ORICO/CodexProjects/微信界面/outputs/第1-13章卡牌-全图标兵种-v012-20261018/unique/portraits/soldier_b4_shu.png","sourceSet":"32-card-pool","longName":false,"ratio":1.184782608695652,"spriteSize":"100% 100%","spritePos":"50% 50%","pixelSize":[218,184],"alphaBounds":[0,0,218,184],"icon":"role-icons/械.png","displayMode":"avatar-only","iconStyle":"approved-round-black-white-v020","iconLabel":"械"},{"id":"b5_shu","name":"蜀中医士","fullName":"蜀中医士","quality":"B","faction":"shu","role":"heal","level":7,"headImage":"assets/b5_shu.png","headStatus":"card_material","sourceHead":"/Volumes/ORICO/CodexProjects/微信界面/outputs/第1-13章卡牌-全图标兵种-v012-20261018/unique/portraits/soldier_b5_shu.png","sourceSet":"32-card-pool","longName":true,"ratio":1.1224489795918366,"spriteSize":"100% 100%","spritePos":"50% 50%","pixelSize":[220,196],"alphaBounds":[0,0,220,196],"icon":"role-icons/医.png","displayMode":"avatar-only","iconStyle":"approved-round-black-white-v020","iconLabel":"医"},{"id":"c_shu_huben","name":"虎贲","fullName":"虎贲","quality":"A","faction":"shu","role":"blade","level":3,"headImage":"assets/c_shu_huben.png","headStatus":"card_material","sourceHead":"/Volumes/ORICO/CodexProjects/微信界面/outputs/第1-13章卡牌-全图标兵种-v012-20261018/unique/portraits/soldier_c_shu_huben.png","sourceSet":"32-card-pool","longName":false,"ratio":0.9779735682819384,"spriteSize":"100% 100%","spritePos":"50% 50%","pixelSize":[222,227],"alphaBounds":[0,0,222,227],"icon":"role-icons/刀.png","displayMode":"avatar-only","iconStyle":"approved-round-black-white-v020","iconLabel":"刀"},{"id":"c_shu_kongming","name":"孔明灯","fullName":"孔明灯","quality":"A","faction":"shu","role":"lantern","level":9,"headImage":"assets/c_shu_kongming.png","headStatus":"card_material","sourceHead":"/Volumes/ORICO/CodexProjects/微信界面/outputs/第1-13章卡牌-全图标兵种-v012-20261018/unique/portraits/soldier_c_shu_kongming.png","sourceSet":"32-card-pool","longName":false,"ratio":1.391304347826087,"spriteSize":"100% 100%","spritePos":"50% 50%","pixelSize":[224,161],"alphaBounds":[0,0,224,161],"icon":"role-icons/飞.png","displayMode":"avatar-only","iconStyle":"approved-round-black-white-v020","iconLabel":"飞"},{"id":"b1_wu","name":"江东弓手","fullName":"江东弓手","quality":"B","faction":"wu","role":"bow","level":2,"headImage":"assets/b1_wu.png","headStatus":"card_material","sourceHead":"/Volumes/ORICO/CodexProjects/微信界面/outputs/第1-13章卡牌-全图标兵种-v012-20261018/unique/portraits/soldier_b1_wu.png","sourceSet":"32-card-pool","longName":true,"ratio":1.0233644859813085,"spriteSize":"100% 100%","spritePos":"50% 50%","pixelSize":[219,214],"alphaBounds":[0,0,219,214],"icon":"role-icons/弓.png","displayMode":"avatar-only","iconStyle":"approved-round-black-white-v020","iconLabel":"弓"},{"id":"b3_wu","name":"巾帼卫","fullName":"巾帼卫","quality":"B","faction":"wu","role":"shield","level":3,"headImage":"assets/b3_wu.png","headStatus":"card_material","sourceHead":"/Volumes/ORICO/CodexProjects/微信界面/outputs/第1-13章卡牌-全图标兵种-v012-20261018/unique/portraits/soldier_wu-new-b3_wu.png","sourceSet":"32-card-pool","longName":false,"ratio":0.8638888888888889,"spriteSize":"100% 100%","spritePos":"50% 50%","pixelSize":[622,720],"alphaBounds":[0,0,622,720],"icon":"role-icons/盾.png","displayMode":"avatar-only","iconStyle":"approved-round-black-white-v020","iconLabel":"盾"},{"id":"b4_wu","name":"劲弩车","fullName":"劲弩车","quality":"B","faction":"wu","role":"siege","level":4,"headImage":"assets/b4_wu.png","headStatus":"card_material","sourceHead":"/Volumes/ORICO/CodexProjects/微信界面/outputs/第1-13章卡牌-全图标兵种-v012-20261018/unique/portraits/soldier_wu-new-b4_wu.png","sourceSet":"32-card-pool","longName":false,"ratio":0.8887043189368771,"spriteSize":"100% 100%","spritePos":"50% 50%","pixelSize":[535,602],"alphaBounds":[0,0,535,602],"icon":"role-icons/械.png","displayMode":"avatar-only","iconStyle":"approved-round-black-white-v020","iconLabel":"械"},{"id":"b5_wu","name":"江东医士","fullName":"江东医士","quality":"B","faction":"wu","role":"heal","level":5,"headImage":"assets/b5_wu.png","headStatus":"card_material","sourceHead":"/Volumes/ORICO/CodexProjects/微信界面/outputs/第1-13章卡牌-全图标兵种-v012-20261018/unique/portraits/soldier_wu-new-b5_wu.png","sourceSet":"32-card-pool","longName":true,"ratio":0.9736434108527132,"spriteSize":"100% 100%","spritePos":"50% 50%","pixelSize":[628,645],"alphaBounds":[0,0,628,645],"icon":"role-icons/医.png","displayMode":"avatar-only","iconStyle":"approved-round-black-white-v020","iconLabel":"医"},{"id":"c_wu_firebow","name":"火攻弓手","fullName":"火攻弓手","quality":"A","faction":"wu","role":"bow","level":6,"headImage":"assets/c_wu_firebow.png","headStatus":"card_material","sourceHead":"/Volumes/ORICO/CodexProjects/微信界面/outputs/第1-13章卡牌-全图标兵种-v012-20261018/unique/portraits/soldier_wu-new-c_wu_firebow.png","sourceSet":"32-card-pool","longName":true,"ratio":1.0154109589041096,"spriteSize":"100% 100%","spritePos":"50% 50%","pixelSize":[593,584],"alphaBounds":[0,0,593,584],"icon":"role-icons/火.png","displayMode":"avatar-only","iconStyle":"approved-round-black-white-v020","iconLabel":"火"},{"id":"c_wu_jieying","name":"劫营步兵","fullName":"劫营步兵","quality":"A","faction":"wu","role":"blade","level":5,"headImage":"assets/c_wu_jieying.png","headStatus":"card_material","sourceHead":"/Volumes/ORICO/CodexProjects/微信界面/outputs/第1-13章卡牌-全图标兵种-v012-20261018/unique/portraits/soldier_wu-new-c_wu_jieying.png","sourceSet":"32-card-pool","longName":true,"ratio":1.0959860383944153,"spriteSize":"100% 100%","spritePos":"50% 50%","pixelSize":[628,573],"alphaBounds":[0,0,628,573],"icon":"role-icons/刀.png","displayMode":"avatar-only","iconStyle":"approved-round-black-white-v020","iconLabel":"刀"}];
 const factions={wei:['魏','#5a7fb8'],shu:['蜀','#4f9a63'],wu:['吴','#b85a4a'],qun:['群','#8a6bb0'],huangjin:['黄巾','#c99a3b'],common:['通用','#929894']};
@@ -44,7 +44,7 @@ const qualityBorders={C:'#91b861',B:'#64b9ee',A:'#bd83da'};
 
 
 document.documentElement.style.removeProperty('--atlas');
-function unit(c,team='ally'){return `<div class="unit ${c.longName?'long-name':''} ${c.headStatus==='missing'?'pending-head':''}" data-team="${team}" data-id="${c.id}" data-name="${c.name}" data-faction="${c.faction}" data-quality="${c.quality}" data-head-status="${c.headStatus}" style="${c.headImage?`--atlas:url(${c.headImage});`:``}--quality-rim:${qualityBorders[c.quality]};--country:${factions[c.faction][1]};--quality:${qualities[c.quality]};--ratio:${c.ratio};--sprite-size:${c.spriteSize};--sprite-pos:${c.spritePos}"><div class="tile"><div class="portrait">${c.headStatus==='missing'?`<div class="head placeholder" aria-label="${c.fullName}待补头像">待补头像</div>`:`<div class="head" role="img" aria-label="${c.fullName}人头"></div>`}</div><div class="cd" role="progressbar" aria-label="${c.name}出兵 CD" aria-valuemin="0" aria-valuemax="100"><svg viewBox="0 0 100 100" aria-hidden="true"><path class="cd-track" pathLength="100" d="M50 2 H90 Q98 2 98 10 V90 Q98 98 90 98 H10 Q2 98 2 90 V10 Q2 2 10 2 H50"/><path class="cd-progress" pathLength="100" d="M50 2 H90 Q98 2 98 10 V90 Q98 98 90 98 H10 Q2 98 2 90 V10 Q2 2 10 2 H50"/><path class="cd-tip" pathLength="100" d="M50 2 H90 Q98 2 98 10 V90 Q98 98 90 98 H10 Q2 98 2 90 V10 Q2 2 10 2 H50"/></svg></div><div class="nameplate"><span class="name-text">${c.name}</span></div></div><div class="hp" role="meter" aria-label="${c.name}血量" aria-valuemin="0" aria-valuemax="100" aria-valuenow="100"><div class="fill"></div></div><img class="role" alt="${c.role}" src="${c.icon}"><div class="level" aria-label="${factions[c.faction][0]}，合成等级 ${c.level}"><span class="digit ${c.level>9?'wide':''}">${c.level}</span></div></div>`}
+function unit(c,team='ally'){return `<div class="unit ${c.longName?'long-name':''} ${c.headStatus==='missing'?'pending-head':''}" data-team="${team}" data-id="${c.id}" data-name="${c.name}" data-faction="${c.faction}" data-quality="${c.quality}" data-head-status="${c.headStatus}" style="${c.headImage?`--atlas:url(${c.headImage});`:``}--quality-rim:${qualityBorders[c.quality]};--country:${factions[c.faction][1]};--quality:${qualities[c.quality]};--ratio:${c.ratio};--sprite-size:${c.spriteSize};--sprite-pos:${c.spritePos}"><div class="tile"><div class="portrait">${c.headStatus==='missing'?`<div class="head placeholder" aria-label="${c.fullName}待补头像">待补头像</div>`:`<div class="head" role="img" aria-label="${c.fullName}人头"></div>`}</div><div class="nameplate"><span class="name-text">${c.name}</span></div></div><div class="cd" role="progressbar" aria-label="${c.name}出兵 CD" aria-valuemin="0" aria-valuemax="100"><svg viewBox="0 0 100 100" aria-hidden="true"><path class="cd-track" pathLength="100" d="M50 2.5 H91 A6.5 6.5 0 0 1 97.5 9 V91 A6.5 6.5 0 0 1 91 97.5 H9 A6.5 6.5 0 0 1 2.5 91 V9 A6.5 6.5 0 0 1 9 2.5 H50"/><path class="cd-progress" pathLength="100" d="M50 2.5 H91 A6.5 6.5 0 0 1 97.5 9 V91 A6.5 6.5 0 0 1 91 97.5 H9 A6.5 6.5 0 0 1 2.5 91 V9 A6.5 6.5 0 0 1 9 2.5 H50"/><path class="cd-tip" pathLength="100" d="M50 2.5 H91 A6.5 6.5 0 0 1 97.5 9 V91 A6.5 6.5 0 0 1 91 97.5 H9 A6.5 6.5 0 0 1 2.5 91 V9 A6.5 6.5 0 0 1 9 2.5 H50"/></svg></div><div class="hp" role="meter" aria-label="${c.name}血量" aria-valuemin="0" aria-valuemax="100" aria-valuenow="100"><div class="fill"></div></div><img class="role" alt="${c.role}" src="${c.icon}"><div class="level" aria-label="${factions[c.faction][0]}，合成等级 ${c.level}"><span class="digit ${c.level>9?'wide':''}">${c.level}</span></div></div>`}
 document.querySelector('#legend').textContent='兵种图标、合成等级置于 CD 上层 · 等级统一黑底白字';
 const groups=groupOrder.map(f=>({f,units:data.filter(c=>c.faction===f)}));
 document.querySelector('#cards').innerHTML=groups.map(g=>`<h2 class="group-title">${factions[g.f][0]} · ${g.units.length} 种</h2>${g.units.map(c=>`<article class="sample"><div class="stage">${unit(c)}</div><small class="full-name">${c.fullName} · ${c.quality}</small><small>${c.id}</small>${c.headStatus==='missing'?`<small class="pending-label">待补头像 · ${c.actionApproved?'动作已确认':'暂无确认素材'}</small>`:''}</article>`).join('')}`).join('');

diff --git a/docs/barracks-square-edge-cd-v028.md b/docs/barracks-square-edge-cd-v028.md
@@ -1,16 +1,15 @@
-# 兵营方形比例与边缘 CD v030
+# 兵营方形比例与外包边 CD v031
 
 更新日期：2026-10-26。
 
-- 共用组件：`simulators/barracks-hud-v020-20261021/index.html` 中 `unit(c, team)`，用于全部36种素材、我方/敌方战场与放大预览。
-- 轮廓宽高为1:1；名称黑栏占总高度19%；头像容器占其上方区域。
-- 血条、兵种图标、合成等级数值及36种兵营定义保持原数据。兵种图标与等级角标统一为 z-index:8，高于 CD 的6；角标保留菱形，统一黑底白字。
-- `team` 为 `ally`（蓝色 #359cff）或 `enemy`（红色 #f2544e）。
-- CD使用同一条归一化SVG路径，从顶部中央顺时针围绕四边；彩线长度对应已完成冷却比例，亮色前端标出当前位置。
-- 冷却进度 `p = 1 - 剩余时间 / 总时间`，通过共用变量 `--cd-progress`、`--cd-tip` 驱动。
-- 暂停保留当前进度；重置回到空边；时间耗尽回到下一轮。预览总冷却为2.5秒。
-- 此次只更新资源站内独立兵营模拟器，不表示游戏引擎已接入。
+- 全部36种兵营、我方/敌方战场和放大预览复用 `unit(c, team)`。
+- 主体含名称区为1:1；外圆角9%，四边包边5%，内画面圆角4%；画面位于 x=5..95%、y=5..77%。
+- 名称区位于 x=5..95%、y=77..95%，底部保留5%包边。名称行高1.1，完整显示且不进入CD区域。
+- CD是卡面裁切容器的同级独立层。100×100归一化路径中心距离边缘2.5，线宽5，外圈只占0..5%和95..100%的包边；圆角处同样等粗。禁止向内部画面或名称区移动。
+- 我方蓝色 #359cff、敌方红色 #f2544e；彩色边长对应冷却完成比例，顶部中央起顺时针推进，亮端与包边同宽。
+- 血条独立在兵营上方，与主体外沿等宽；我方绿色 #a0ee49，敌方红色 #ef514b。
+- 兵种图标和黑底白字等级菱形为z-index:8，高于CD的6。等级中心位于右下外角，避免挡住名称。
+- 36种头像、名单和原数据保持复用；2.5秒循环仅用于独立预览。暂停、重置与血量按钮同步作用于所有尺寸。
+- 只更新资源库内的独立兵营模拟器，不表示游戏引擎已接入。
 
-验证：36种数据和全部素材路径完整；放大与34px共用组件；我方蓝色/敌方红色；暂停、重置、血量联动通过浏览器检查。
-
-- 血条独立位于兵营上方：我方绿色 #a0ee49，敌方红色 #ef514b；CD继续使用我方蓝色、敌方红色的边缘进度。
+验证：36种定义与上一版本逐项一致，素材路径完整；110个实例均为方形、名称矩形在名称栏内、血条在上方、图标与等级高于CD。120/140/34px均通过；暂停、归零重置及半血/满血联动通过浏览器检查。
